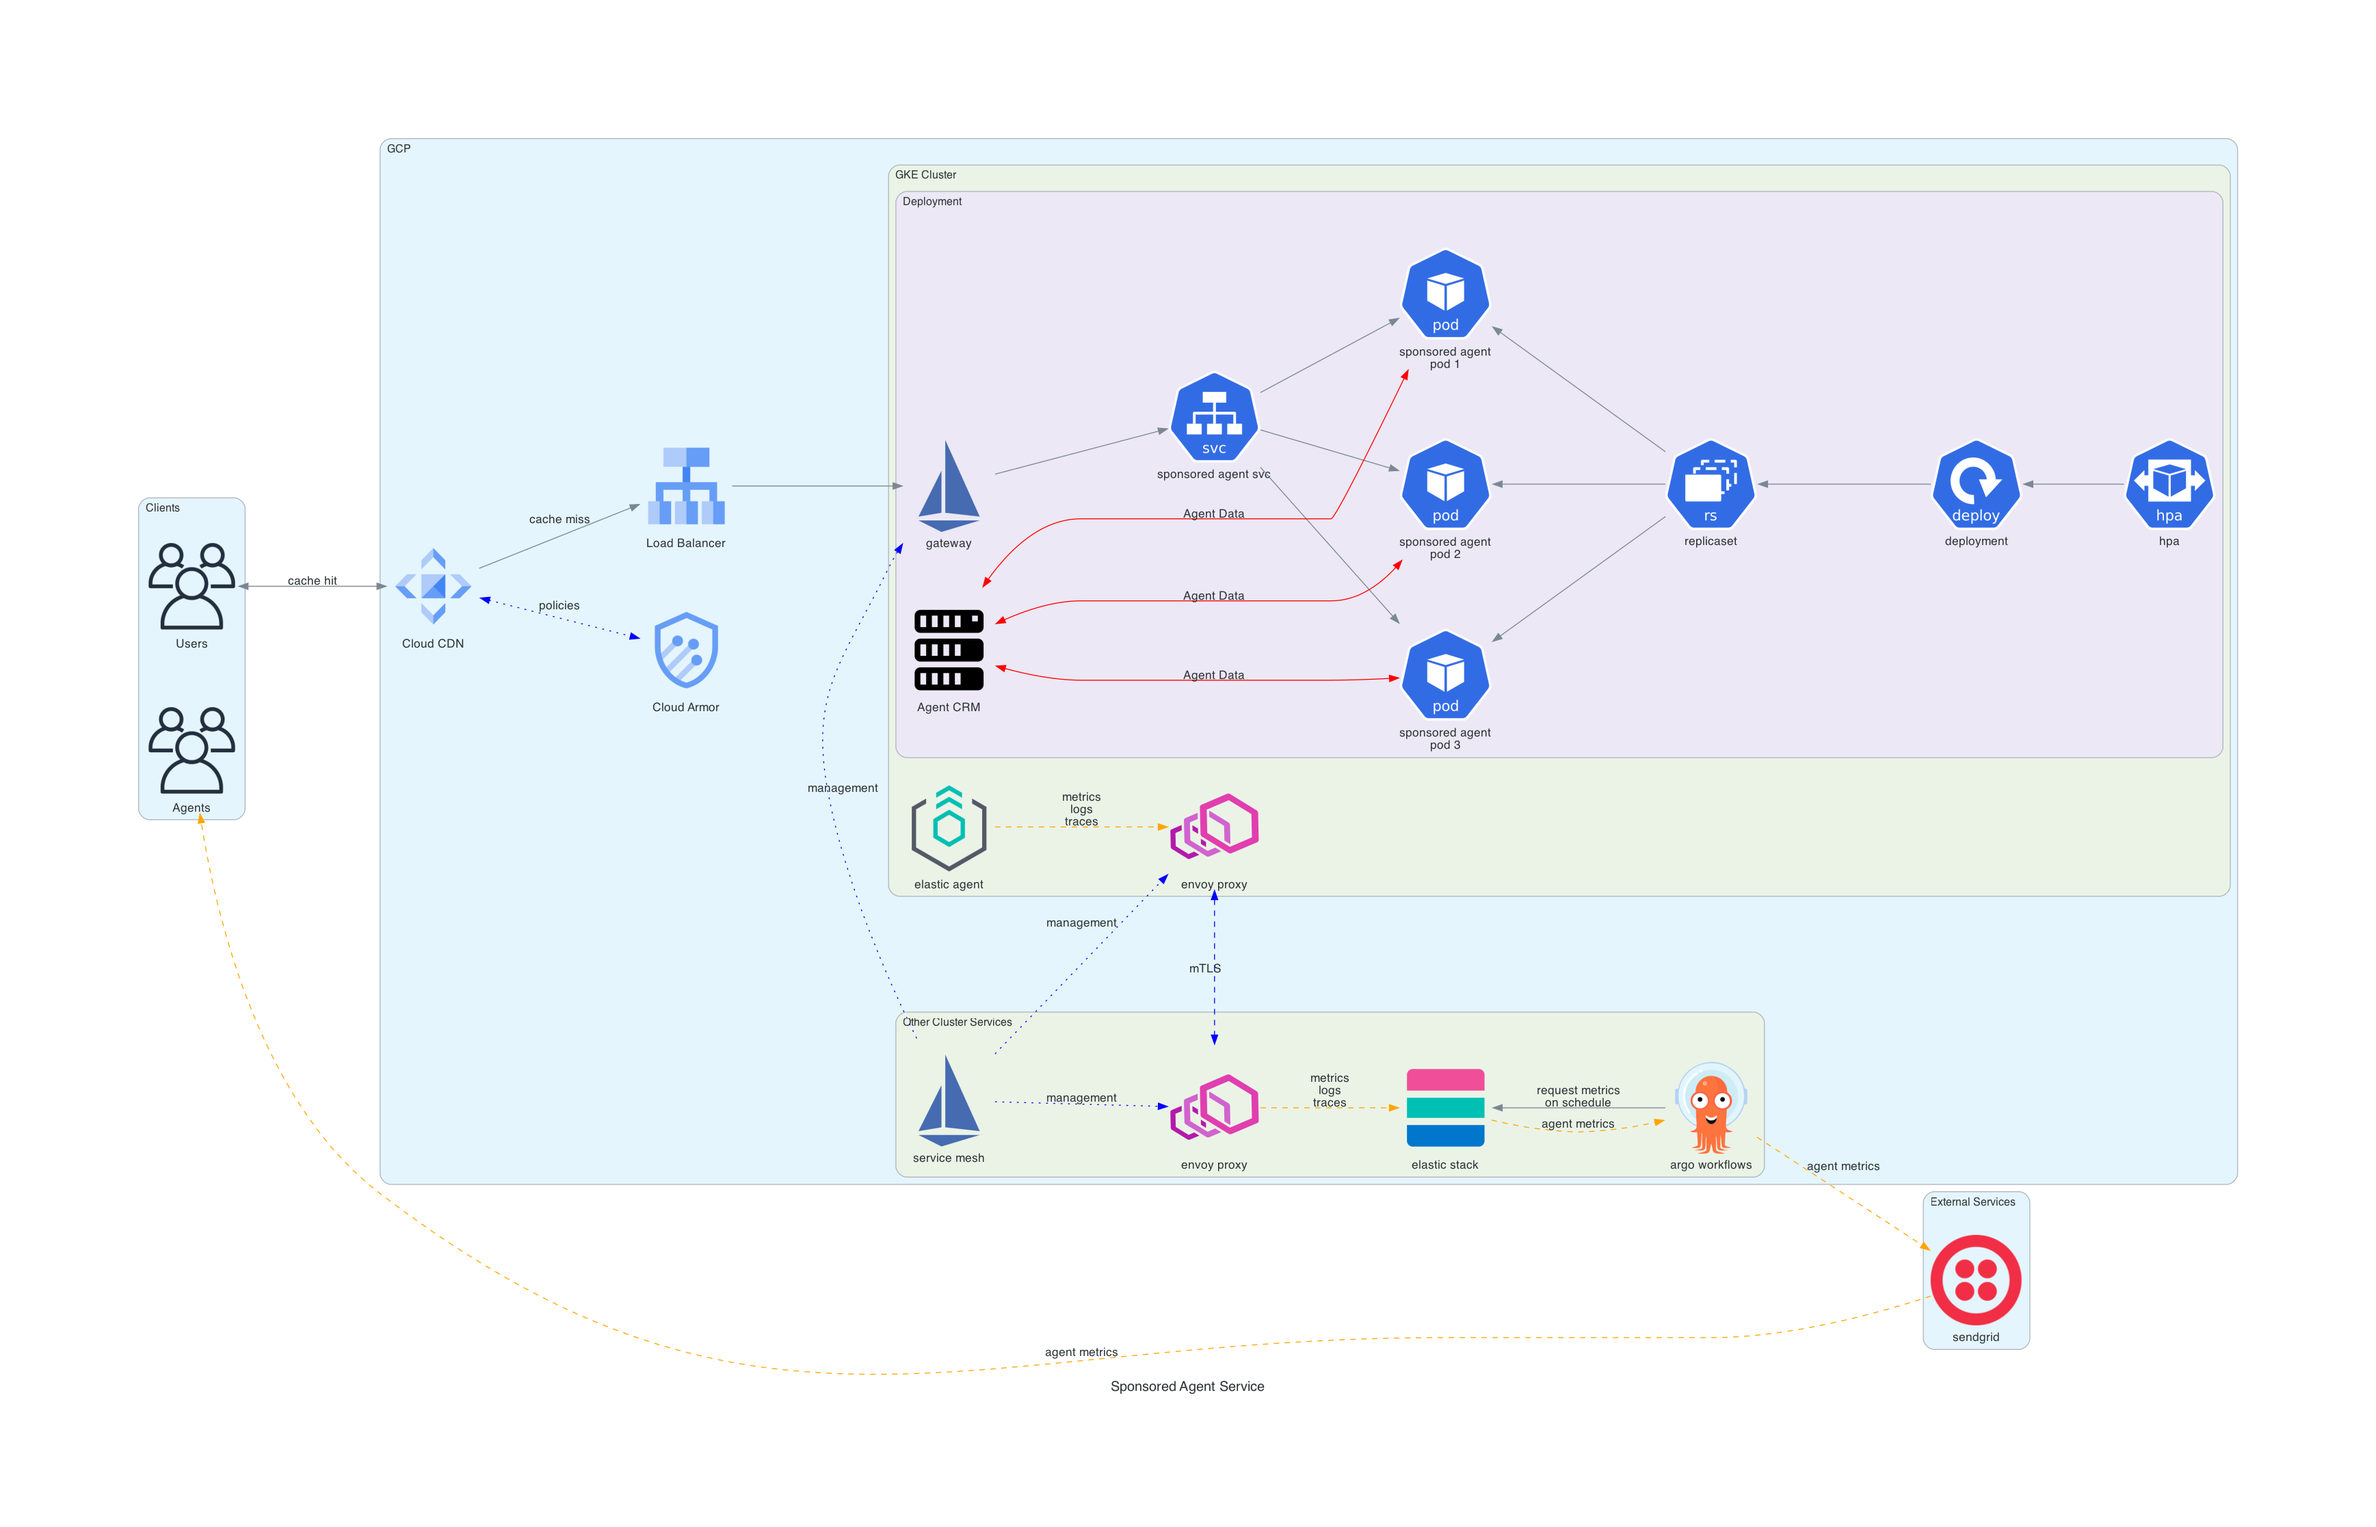
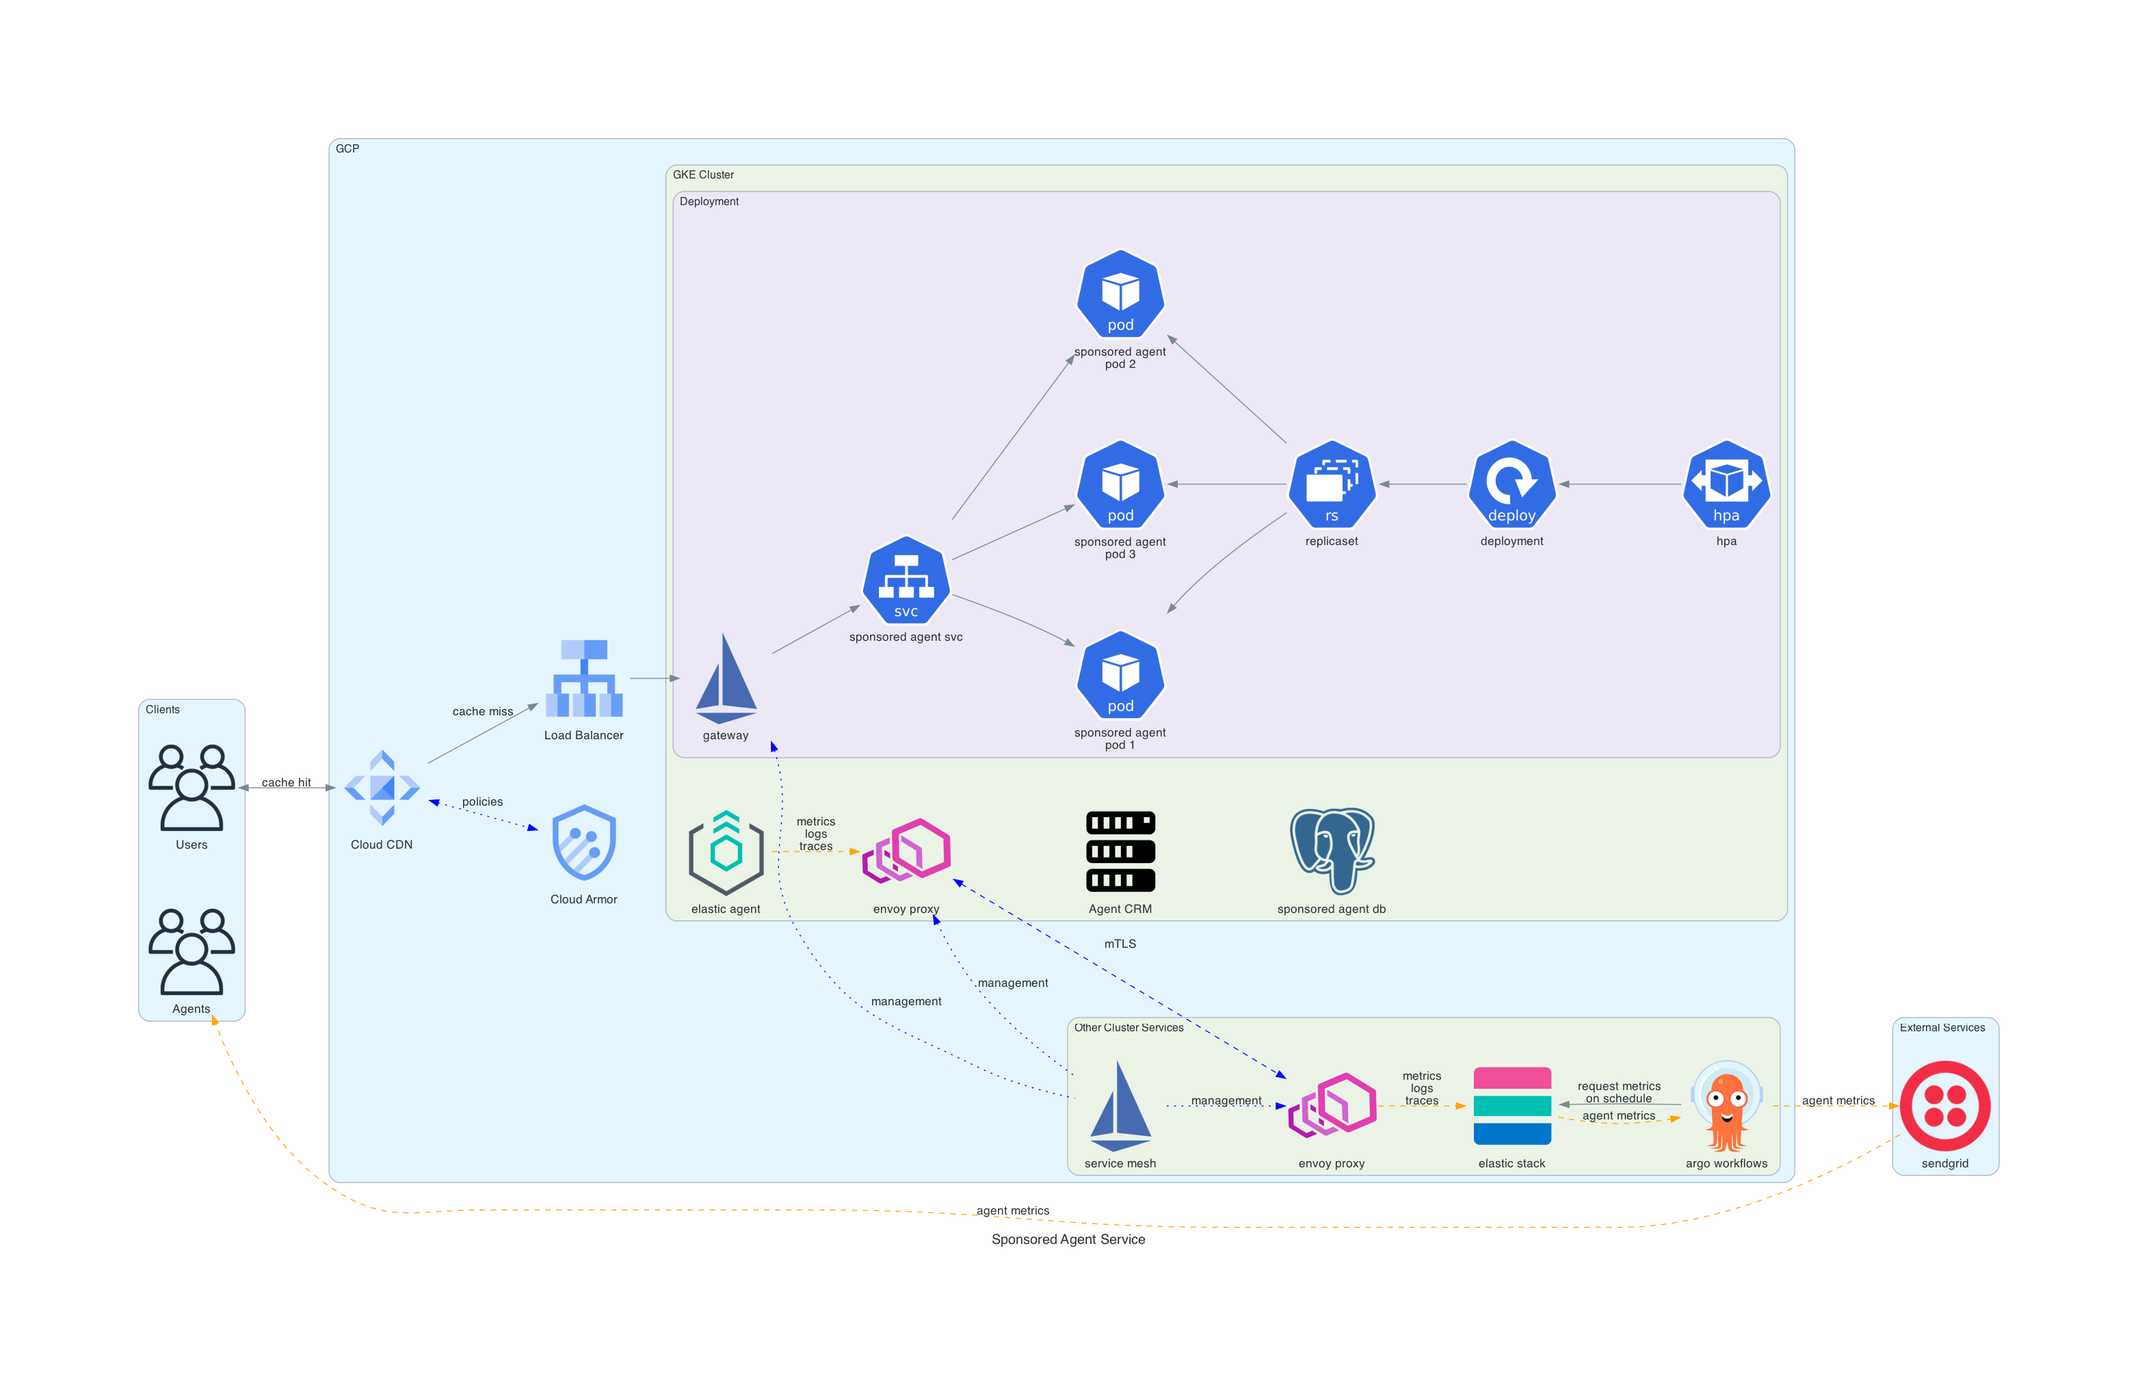
tried adjusting to show pod proxy data flow but was taking too much time for a small detail; added info to readme instead; added db and crm;

diff --git a/diagram.py b/diagram.py
@@ -6,7 +6,7 @@ from diagrams.gcp.network import CDN, Armor, LoadBalancing
 from diagrams.onprem.client import Users
 
 # Custom
-from diagrams.custom import Custom
+from diagrams.custom import Custom, Node
 from urllib.request import urlretrieve
 
 
@@ -25,8 +25,7 @@ from diagrams.k8s.network import Service
 
 # Observability
 from diagrams.elastic.agent import Agent
-from diagrams.elastic.elasticsearch import Elasticsearch, Stack
-from diagrams.elastic.observability import Metrics, Logs, Observability
+from diagrams.elastic.elasticsearch import Stack
 
 # Workflows
 from diagrams.onprem.gitops import Argocd
@@ -41,12 +40,12 @@ urlretrieve(envoy_url, envoy_logo)
 graph_attr = {"concentrate": "false", "splines": "spline"}
 
 edge_attr = {
-    "minlen": "2",
+    "minlen": "1.5",
 }
 
 
 def data_edge(label: str, **attrs: dict[str, str]):
-    return Edge(label=label, color="red", **attrs)
+    return Edge(label=label, color="firebrick", **attrs)
 
 
 def metrics_edge(label: str, **attrs: dict[str, str]):
@@ -58,7 +57,7 @@ def management_edge(label: str, **attrs: dict[str, str]):
 
 
 def security_edge(label: str, **attrs: dict[str, str]):
-    return Edge(label=label, color="blue", style="dashed", **attrs)
+    return Edge(xlabel=label, color="blue", style="dashed", **attrs)
 
 
 with Diagram(
@@ -83,14 +82,25 @@ with Diagram(
         with Cluster("GKE Cluster"):
             es_agent = Agent("elastic agent")
             cluster_envoy = Custom("envoy proxy", envoy_logo)
+            agent_crm = Server("Agent CRM")
+            agent_db = PostgreSQL("sponsored agent db")
 
-            with Cluster("Deployment"):
-                agent_crm = Server("Agent CRM")
+            (
+                cluster_envoy
+                >> Edge(color="transparent")
+                >> agent_crm
+                >> Edge(color="transparent")
+                >> agent_db
+            )
+            with Cluster("Deployment", graph_attr={"splines": "curved"}):
                 gw = Istio("gateway")
                 net = gw >> Service("sponsored agent svc")
                 hpa = HPA("hpa")
-
-                pods = [Pod("sponsored agent\npod 1"), Pod("sponsored agent\npod 3"), Pod("sponsored agent\npod 2")]
+                pods = [
+                    Pod("sponsored agent\npod 1"),
+                    Pod("sponsored agent\npod 3"),
+                    Pod("sponsored agent\npod 2"),
+                ]
 
                 # Deployment Flow
                 (
@@ -108,23 +118,12 @@ with Diagram(
             workflows = Argocd("argo workflows")
             sm = Istio("service mesh")
 
-        sm >> management_edge("management") >> [cluster_envoy, other_envoy]
-        sm >> management_edge("management") >> gw
-
-
-    # Pod CRM Flow
-    (
-        agent_crm
-        << Edge(label="Agent Data", labelfloat="true", color="red", minlen="4", weight="1")
-        >> pods
-    )
-
     # Elastic Agent Data Flow
     (
         es_agent
         >> metrics_edge(label="metrics\nlogs\ntraces")
         >> cluster_envoy
-        >> Edge(label="mTLS", color="blue", style="dashed", weight="1")
+        >> Edge(label="mTLS", color="blue", style="dashed", weight="5")
         << other_envoy
         >> metrics_edge(label="metrics\nlogs\ntraces")
         >> es
@@ -151,4 +150,13 @@ with Diagram(
         >> sendgrid
         >> metrics_edge("agent metrics", weight="0")
         >> agents
+    )
+
+    # Service Mesh Management Flow
+    (
+        [gw, cluster_envoy]
+        << management_edge("management")
+        << sm
+        >> management_edge("management")
+        >> other_envoy
     )

diff --git a/README.md b/README.md
@@ -13,9 +13,14 @@ A streamlined Kubernetes-based system designed to handle sponsored agent informa
 - Auto Healing
 - Stateless so no need for stateful set and additional storage cost
 
+### Networking
+- Utilizing Istio service mesh
+- Sidecars in each pod enable mTLS communication with any services they may need to communicate
+
 ### Storage
 - Metrics gathered by elastic agent and pushed to elasticsearch
 - Agent Data is gathered from the CRM (could implement caching here if needed as well)
+- Postgres can be in cluster or a managed service.
 
 ### Caching/CDN
 - Cloud CDN for caching agent service responses and assets
